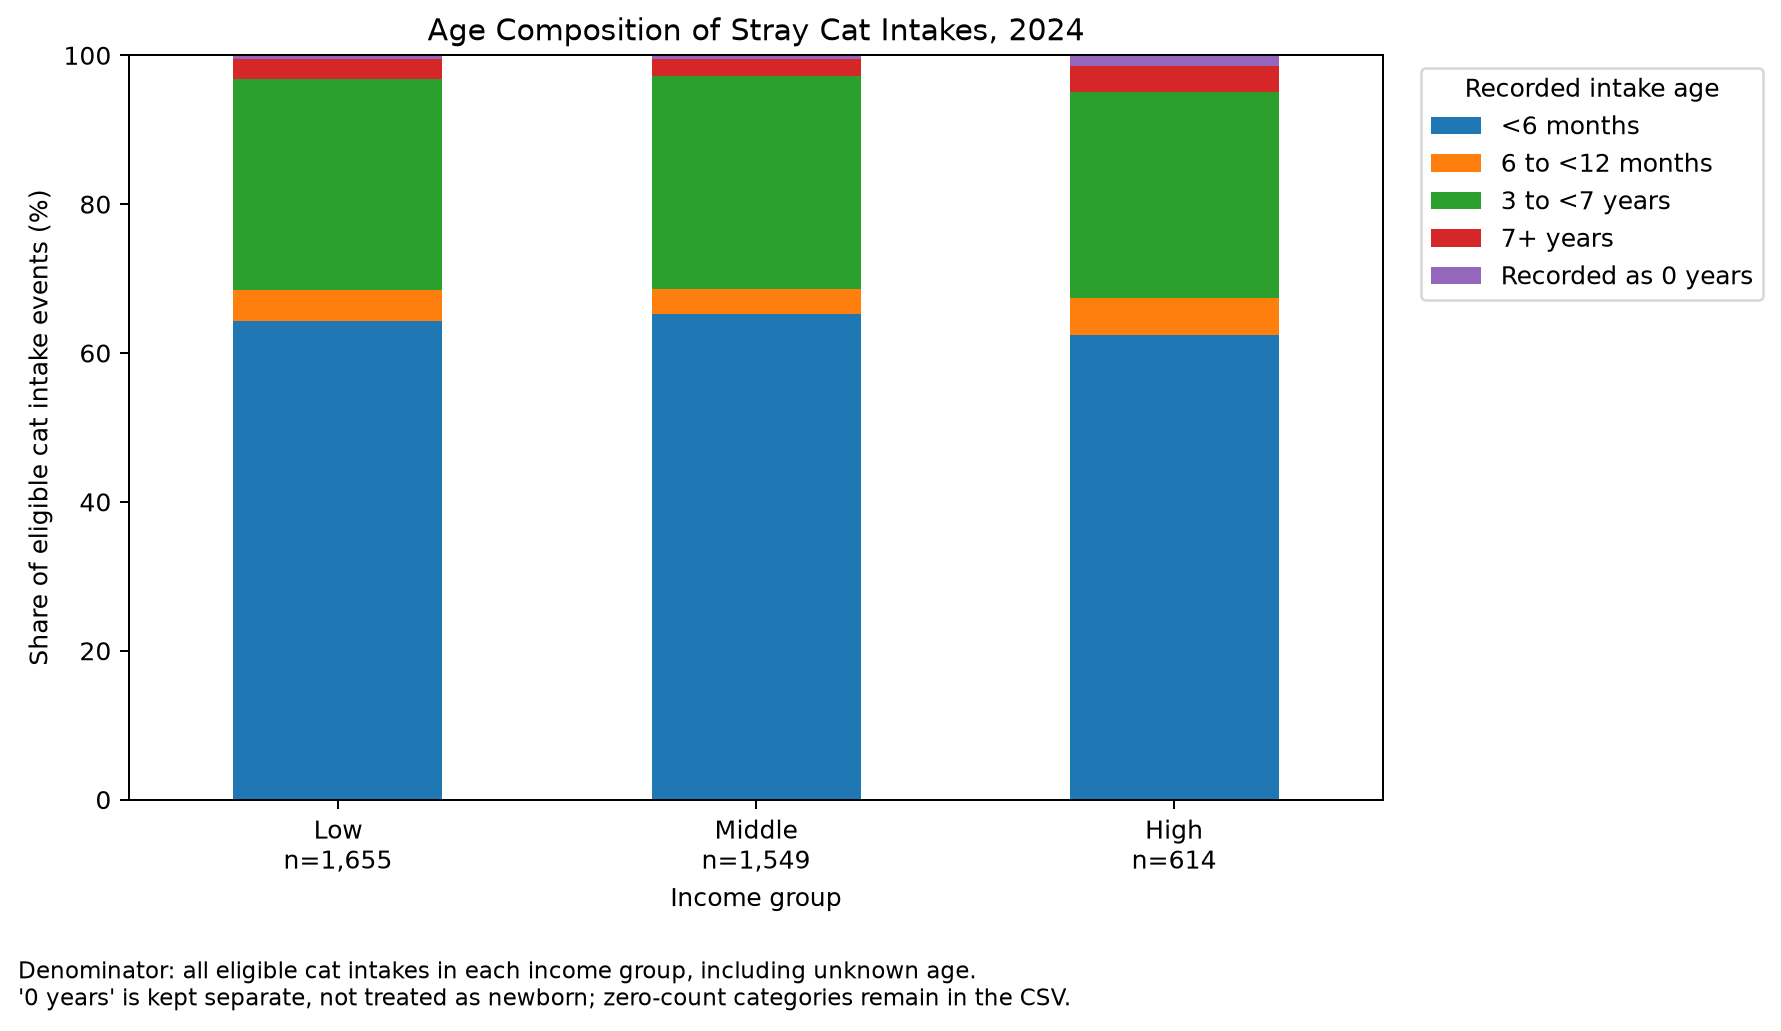
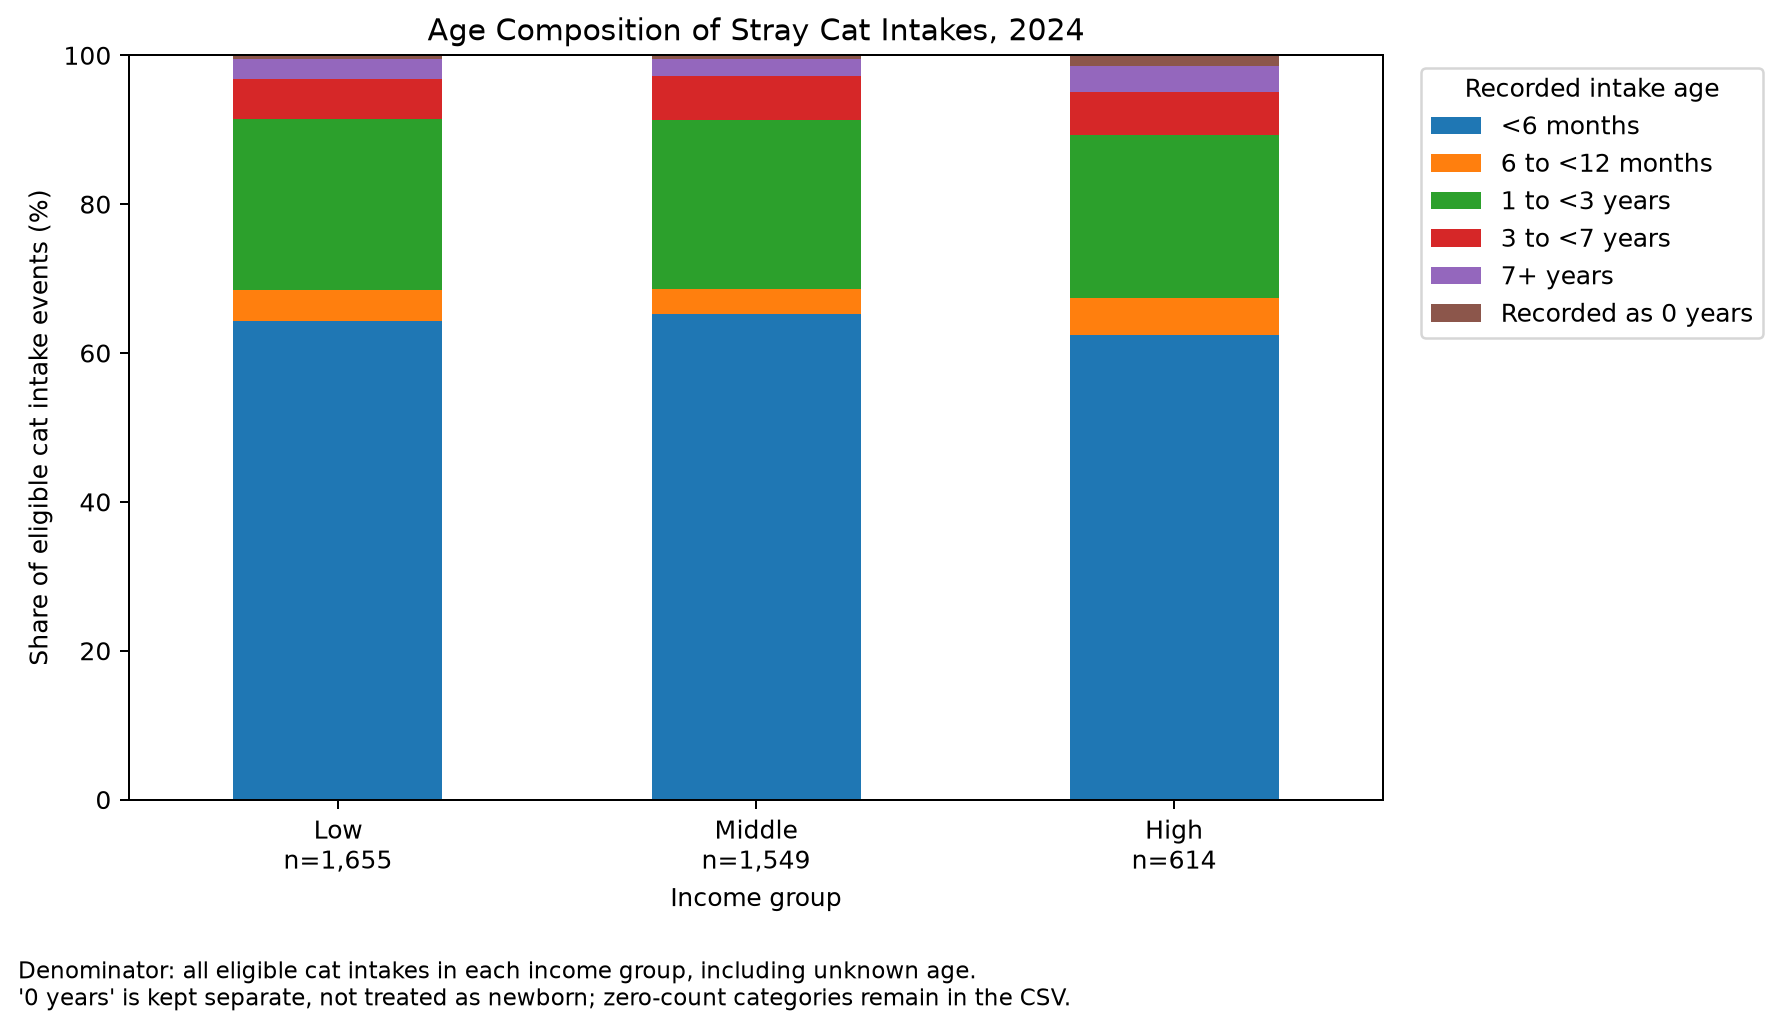
Add income reproducibility tests and fix age grouping (#42)

diff --git a/code/income/test_income.py b/code/income/test_income.py
@@ -1,0 +1,135 @@
+import unittest
+
+import pandas as pd
+
+from income_composition import age_composition, group_age, species_composition
+from income_intakes import (
+    create_income_groups, prepare_grouped_sample, summarize_intakes,
+)
+from income_outcomes import coverage_table, match_outcomes, outcome_composition
+from income_sample import DATA_DIR, KEYS, build_sample, select_stray_cats_dogs
+
+
+class IncomeTests(unittest.TestCase):
+    def test_stray_selection(self):
+        """Keep Stray cats/dogs, but not surrendered cats or Stray birds."""
+        data=pd.DataFrame(
+            {
+                "Intake Type": ["Stray", "Stray", "Owner Surrender", "Stray"],
+                "Animal Type": ["Cat", "Dog", "Cat", "Bird"],
+            }
+        )
+        selected=select_stray_cats_dogs(data)
+        self.assertEqual(selected.index.tolist(), [0, 1])
+
+    def test_tract_weights_and_ties(self):
+        data=pd.DataFrame(
+            {
+                "tract_geoid": [str(i).zfill(11) for i in range(9)],
+                "median_income": [10, 20, 30, 30, 40, 50, 60, 70, 80],
+            }
+        )
+        groups, cuts=create_income_groups(data)
+        repeated=pd.concat([data, data.iloc[[0]]] * 3, ignore_index=True)
+        again, again_cuts=create_income_groups(repeated)
+        pd.testing.assert_frame_equal(cuts, again_cuts)
+        self.assertEqual(len(groups), len(again))
+        tied=groups.loc[groups["median_income"].eq(30), "income_group"]
+        self.assertEqual(tied.nunique(), 1)
+
+    def test_conflicting_tract_income(self):
+        data=pd.DataFrame(
+            {"tract_geoid": ["00000000001", "00000000001"], "median_income": [10, 20]}
+        )
+        with self.assertRaises(ValueError):
+            create_income_groups(data)
+
+    def test_age_boundaries(self):
+        cases={
+            "": "Not recorded", "0 years": "Recorded as 0 years",
+            "0 months": "<6 months", "5 months": "<6 months",
+            "6 months": "6 to <12 months", "1 year": "1 to <3 years",
+            "3 years": "3 to <7 years", "7 years": "7+ years",
+        }
+        for raw, expected in cases.items():
+            self.assertEqual(group_age(raw), expected)
+        with self.assertRaises(ValueError):
+            group_age("not an age")
+
+    def test_outcome_denominators(self):
+        sample=pd.DataFrame(
+            {
+                "Animal ID": [f"A{i}" for i in range(6)],
+                "Intake Date": ["2024-01-01"] * 6,
+                "Intake Time": ["12:00:00"] * 6,
+                "Intake Type": ["Stray"] * 6,
+                "Age upon Intake": ["1 year"] * 6,
+                "income_group": ["Low"] * 6,
+                "Animal Type": ["Dog"] * 6,
+            }
+        )
+        episodes=sample[KEYS].copy()
+        episodes["Outcome_DateTime"] = [
+            "2024-01-02 12:00:00", "", "2024-01-03 12:00:00",
+            "2024-01-03 12:00:00", "2023-12-01 12:00:00", "2024-01-04 12:00:00",
+        ]
+        episodes["Outcome Type"] = [
+            "Return to Owner", "", "Missing", "", "Adoption", "Rto-Adopt",
+        ]
+        events=match_outcomes(sample, episodes)
+        self.assertEqual(int(events["usable_outcome"].sum()), 3)
+        table=outcome_composition(events, ["income_group"])
+        self.assertEqual(table["count"].sum(), 3)
+        missing_count=table.loc[table["outcome"].eq("Missing"), "count"].iloc[0]
+        self.assertEqual(int(missing_count), 1)
+        rto=table.loc[table["outcome"].eq("Return to Owner")].iloc[0]
+        self.assertEqual(rto["count"], 1)
+        self.assertAlmostEqual(rto["percent"], 100 / 3)
+        coverage=coverage_table(events, ["income_group"])
+        self.assertEqual(coverage["intake_events"].iloc[0], 6)
+        self.assertEqual(coverage["coverage_pct"].iloc[0], 50)
+
+    def test_actual_sample_and_composition_totals(self):
+        sample, flow, coverage=build_sample()
+        grouped, tracts, _=prepare_grouped_sample()
+        self.assertEqual(len(sample), len(grouped))
+        self.assertEqual(flow["records"].iloc[-1], len(sample))
+        self.assertEqual(coverage["analysis_intakes"].sum(), len(sample))
+        self.assertTrue(sample["Intake Type"].eq("Stray").all())
+        shelter=sample["Found Location"].str.contains(
+            "7201 Levander", case=False, regex=False
+        )
+        self.assertFalse(shelter.any())
+        self.assertFalse(sample.duplicated(subset=KEYS).any())
+        self.assertEqual(tracts["tract_geoid"].nunique(), len(tracts))
+        counts=summarize_intakes(grouped, tracts)
+        self.assertEqual(counts["total_intakes"].sum(), len(sample))
+        species=species_composition(grouped)
+        ages=age_composition(grouped)
+        self.assertEqual(species["count"].sum(), len(sample))
+        self.assertEqual(ages["count"].sum(), len(sample))
+        for percent in species.groupby("income_group")["percent"].sum():
+            self.assertAlmostEqual(percent, 100)
+        for _, subset in ages.groupby(["income_group", "animal_type"]):
+            if subset["denominator"].iloc[0] > 0:
+                self.assertAlmostEqual(subset["percent"].sum(), 100)
+
+    def test_actual_outcome_coverage(self):
+        sample, _, _ = prepare_grouped_sample()
+        episodes=pd.read_csv(
+            DATA_DIR / "aac_intake_outcomes_with_income_2024.csv",
+            dtype=str, keep_default_na=False,
+        )
+        events = match_outcomes(sample, episodes)
+        self.assertEqual(len(events), len(sample))
+        coverage = coverage_table(events, ["income_group"])
+        table = outcome_composition(events, ["income_group"])
+        self.assertEqual(coverage["intake_events"].sum(), len(sample))
+        self.assertEqual(coverage["usable_outcomes"].sum(), table["count"].sum())
+        for _, subset in table.groupby("income_group", observed=True):
+            if subset["denominator"].iloc[0] > 0:
+                self.assertAlmostEqual(subset["percent"].sum(), 100)
+
+
+if __name__ == "__main__":
+    unittest.main(verbosity=2)

diff --git a/code/income/income_composition.py b/code/income/income_composition.py
@@ -12,28 +12,40 @@ AGE_ORDER=[
 def group_age(age):
     if pd.isna(age) or str(age).strip() == "":
         return "Not recorded"
+
     text=str(age).strip().lower()
     parts=text.split()
+
     if len(parts) != 2:
         raise ValueError(f"Unexpected intake age: {age!r}")
+
     number=float(parts[0])
     unit=parts[1].rstrip("s")
-    months_per_unit={
-        "year": 12, "month": 1, "week": 84 / 365.25, "day": 12 / 365.25,
+
+    months_per_unit = {
+        "year": 12,
+        "month": 1,
+        "week": 84 / 365.25,
+        "day": 12 / 365.25,
     }
+
     if unit not in months_per_unit or not 0 <= number < float("inf"):
         raise ValueError(f"Unexpected intake age: {age!r}")
-    if unit == "year" and number == 0:
+
+    if unit=="year" and number == 0:
         return "Recorded as 0 years"
+
     months=number * months_per_unit[unit]
-    if months<6:
+
+    if months < 6:
         return "<6 months"
-    if months<12:
+    if months < 12:
         return "6 to <12 months"
-    if months< 6:
+    if months < 36:
         return "1 to <3 years"
-    if months<84:
+    if months < 84:
         return "3 to <7 years"
+
     return "7+ years"
 
 

diff --git a/code/income/analyze_income.py b/code/income/analyze_income.py
@@ -1,0 +1,31 @@
+import argparse
+
+from income_sample import OUTPUT_DIR
+
+
+def main():
+    parser=argparse.ArgumentParser(description=__doc__)
+    parser.add_argument(
+        "--stage",
+        choices=["all", "sample", "intakes", "composition", "outcomes"],
+        default="all",
+        help="Default: all. Individual stages are useful while developing the code.",
+    )
+    stage=parser.parse_args().stage
+    if stage in ["all", "sample"]:
+        from income_sample import main as run_sample
+        run_sample()
+    if stage in ["all", "intakes"]:
+        from income_intakes import main as run_intakes
+        run_intakes()
+    if stage in ["all", "composition"]:
+        from income_composition import main as run_composition
+        run_composition()
+    if stage in ["all", "outcomes"]:
+        from income_outcomes import main as run_outcomes
+        run_outcomes()
+    print("\nFinished. Tables and figures are in:", OUTPUT_DIR)
+
+
+if __name__ == "__main__":
+    main()
